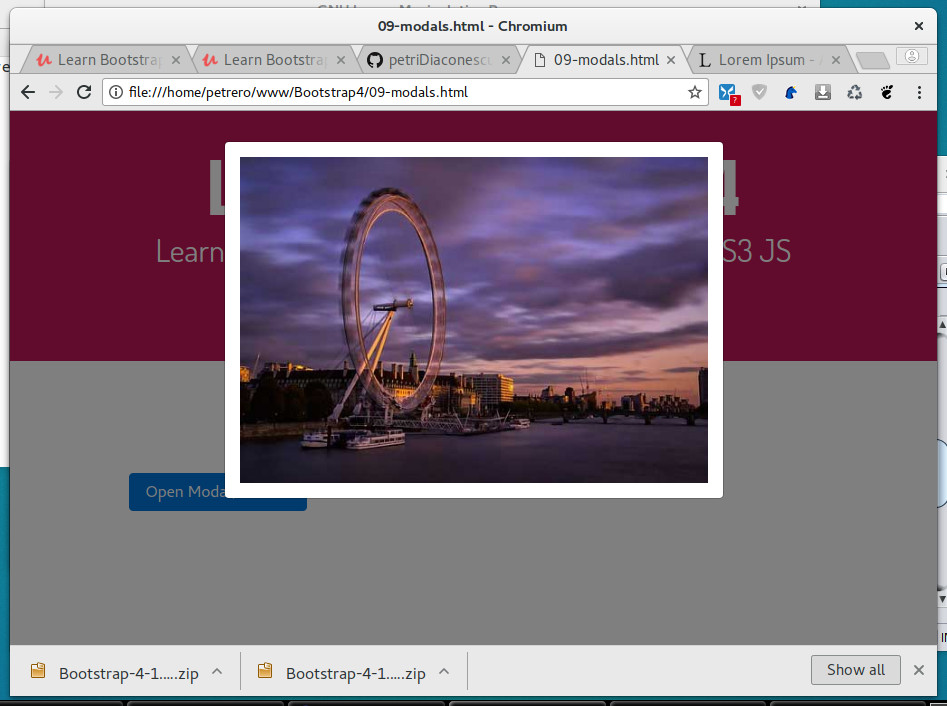
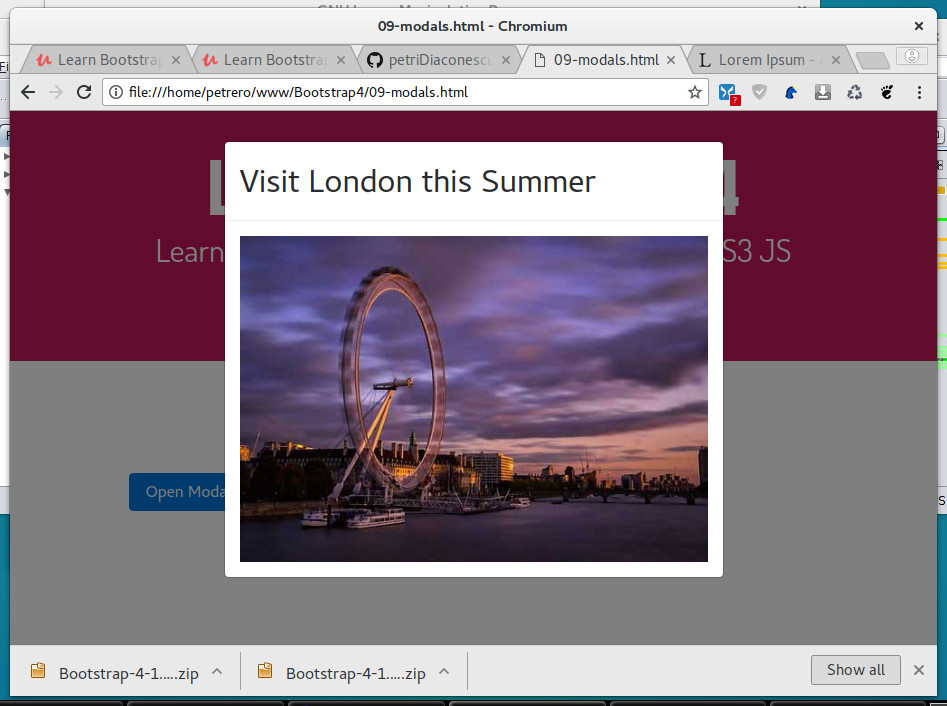
Create some header to our modal dialog

diff --git a/09-modals.html b/09-modals.html
@@ -30,8 +30,15 @@
           </a>
           <div id="modal" class="modal fade" tabindex="-1" 
             role="dialog" aria-labelledby="modal" aria-hidden="true">
+            
             <div class="modal-dialog" role="document">
               <div class="modal-content">
+                <div class="modal-header">
+                  <h2 class="modal-title">
+                    Visit London this Summer
+                  </h2>
+                </div>
+                
                 <div class="modal-body">
                   <img src="img/card_01.jpg" alt="" class="img-fluid"/>
                 </div>
